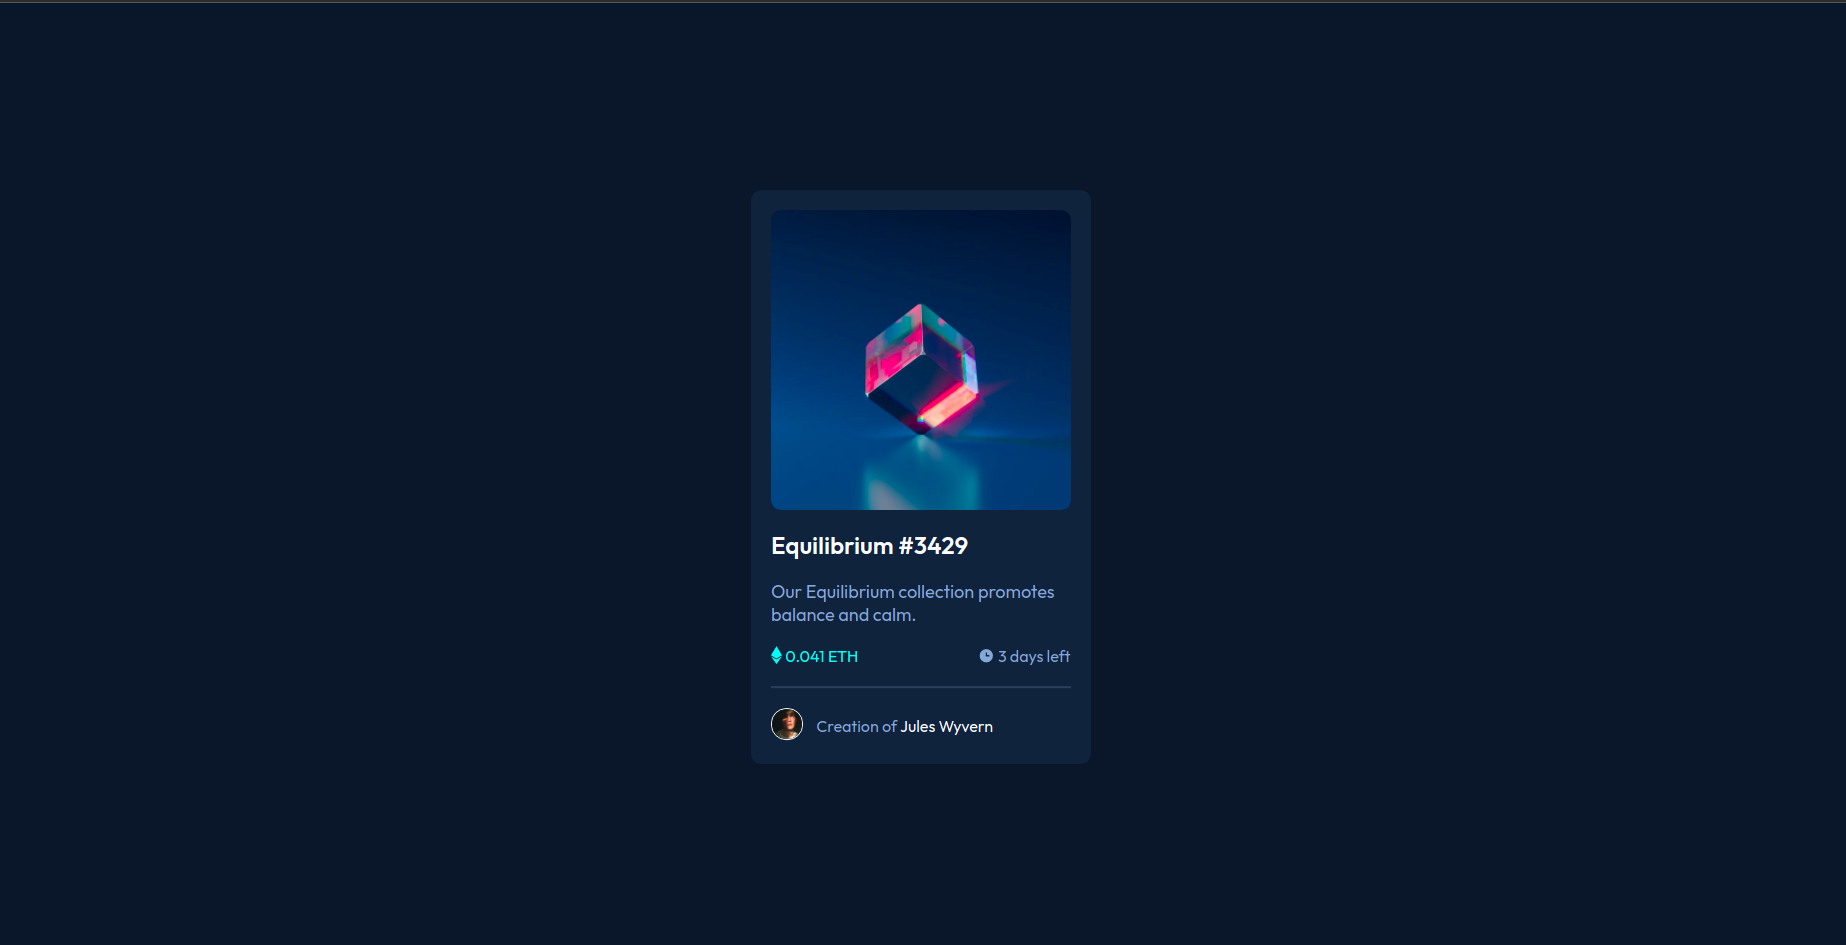
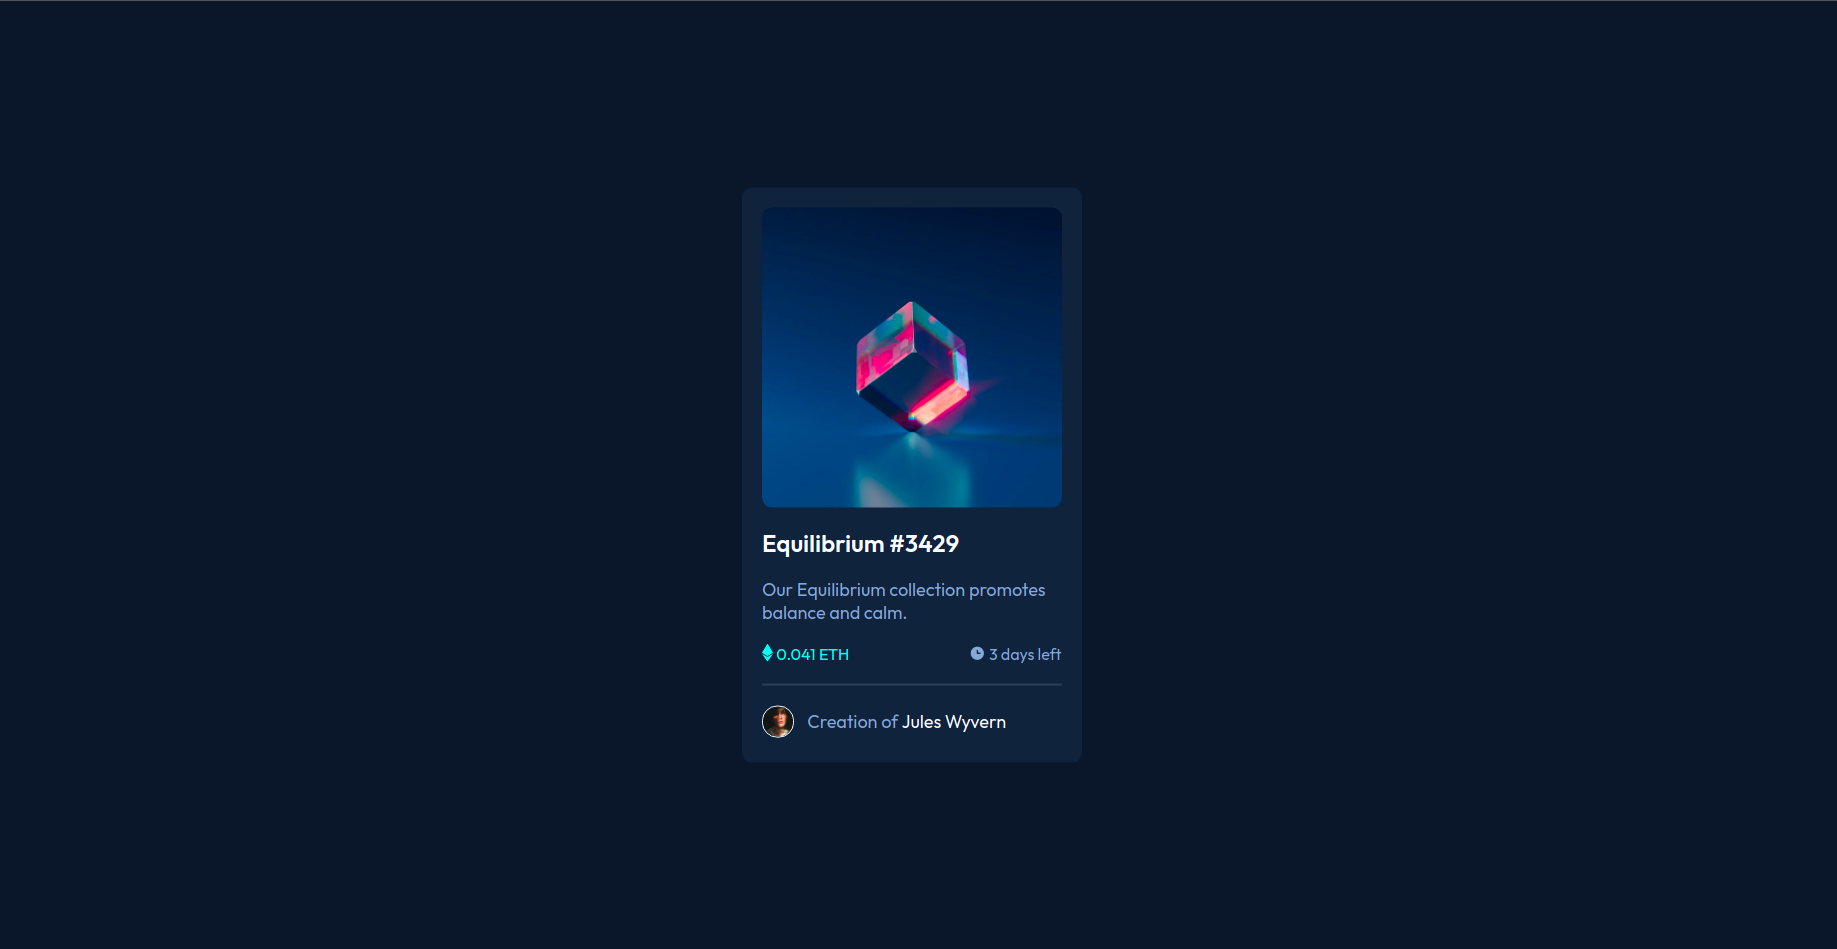
Update styles.css

diff --git a/css/styles.css b/css/styles.css
@@ -56,6 +56,7 @@ body{
 }
 #card-heading{
     text-align: left;
+    font-weight: 600;
 }
 #card-heading:hover{
     color: hsl(178, 100%, 50%);
@@ -64,6 +65,7 @@ body{
     text-align: left;
     font-size: 1.125rem;
     color: hsl(215, 51%, 70%);
+    font-weight: 400;
 }
 .first,.second{
     display: inline-block;
@@ -90,9 +92,10 @@ hr{
     border: 0.0625rem solid hsl(0, 0%, 100%);
 }
 span.credit{
+    font-size: 1.125rem;
     position: relative;
     left: 0.625rem;
-    bottom: 0.5rem;
+    bottom: 0.6rem;
 }
 .name-prefix{
     color: hsl(215, 51%, 70%);
